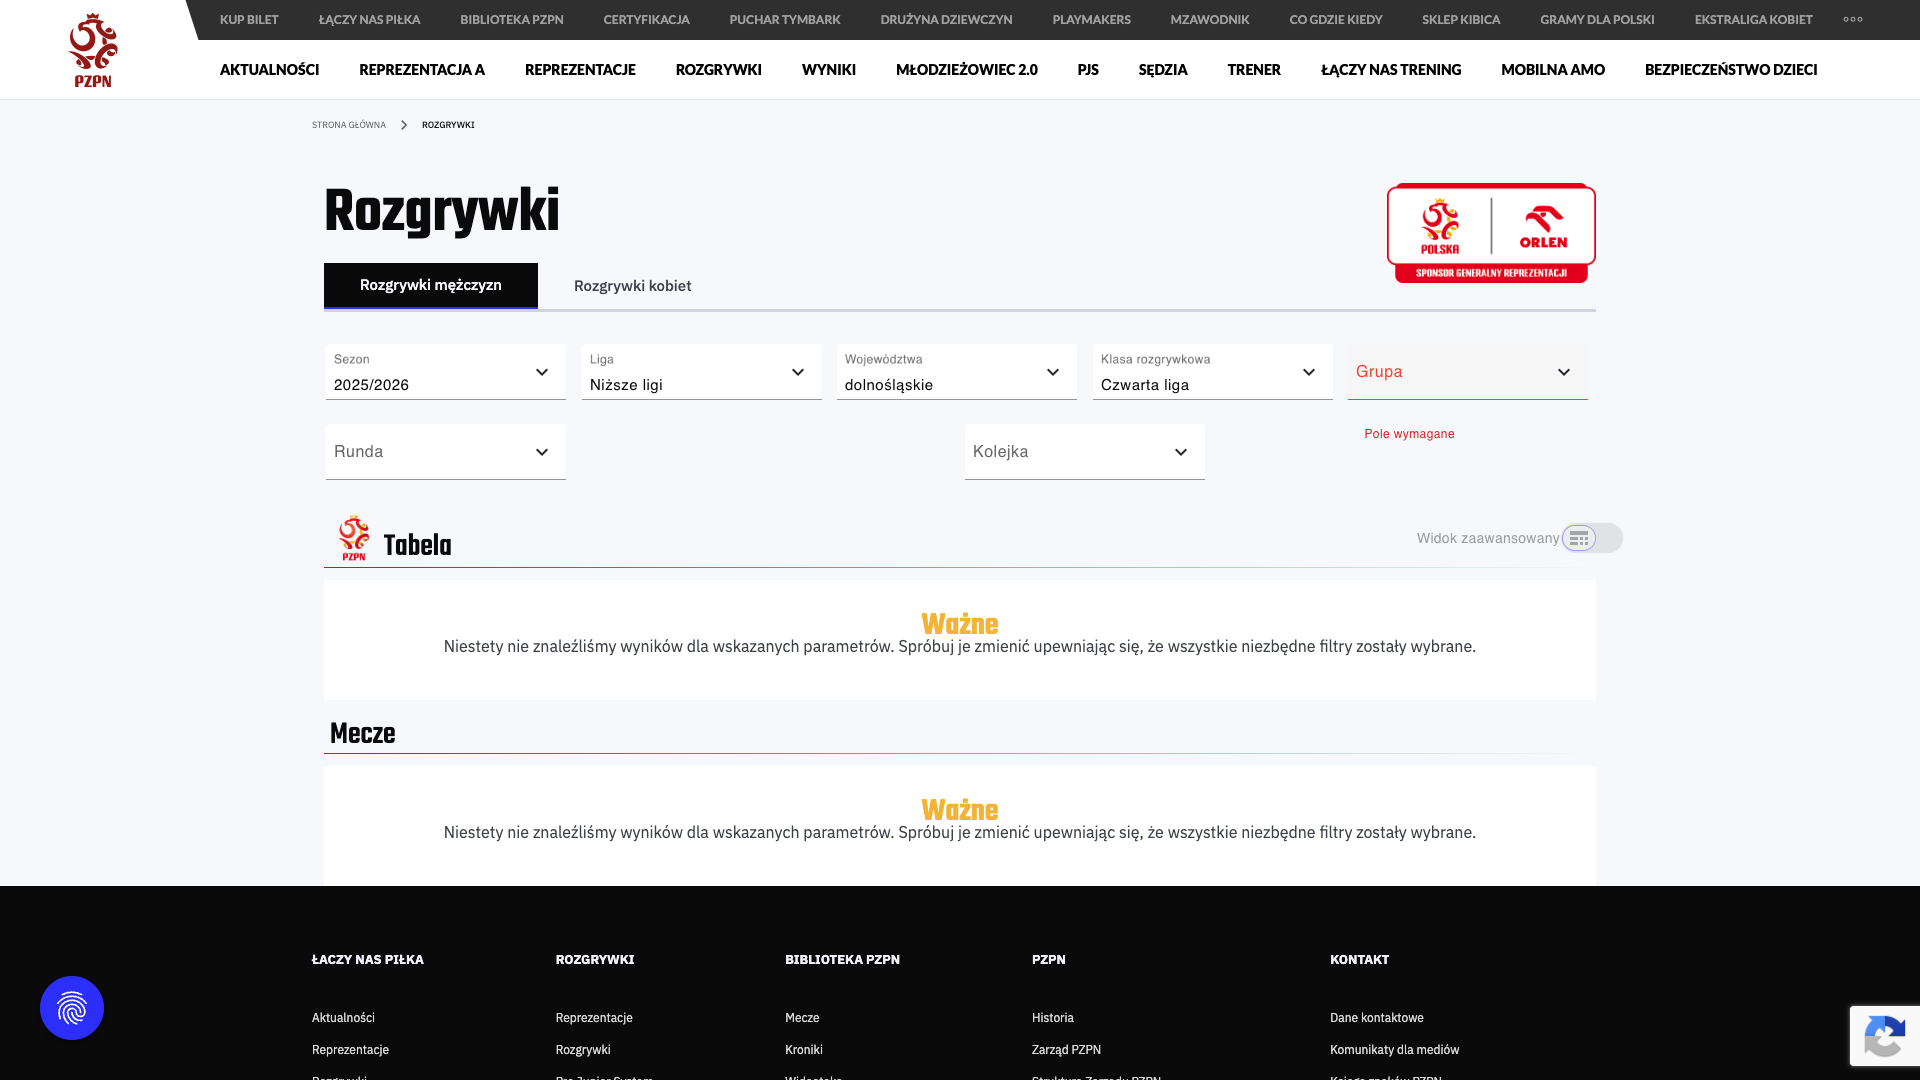
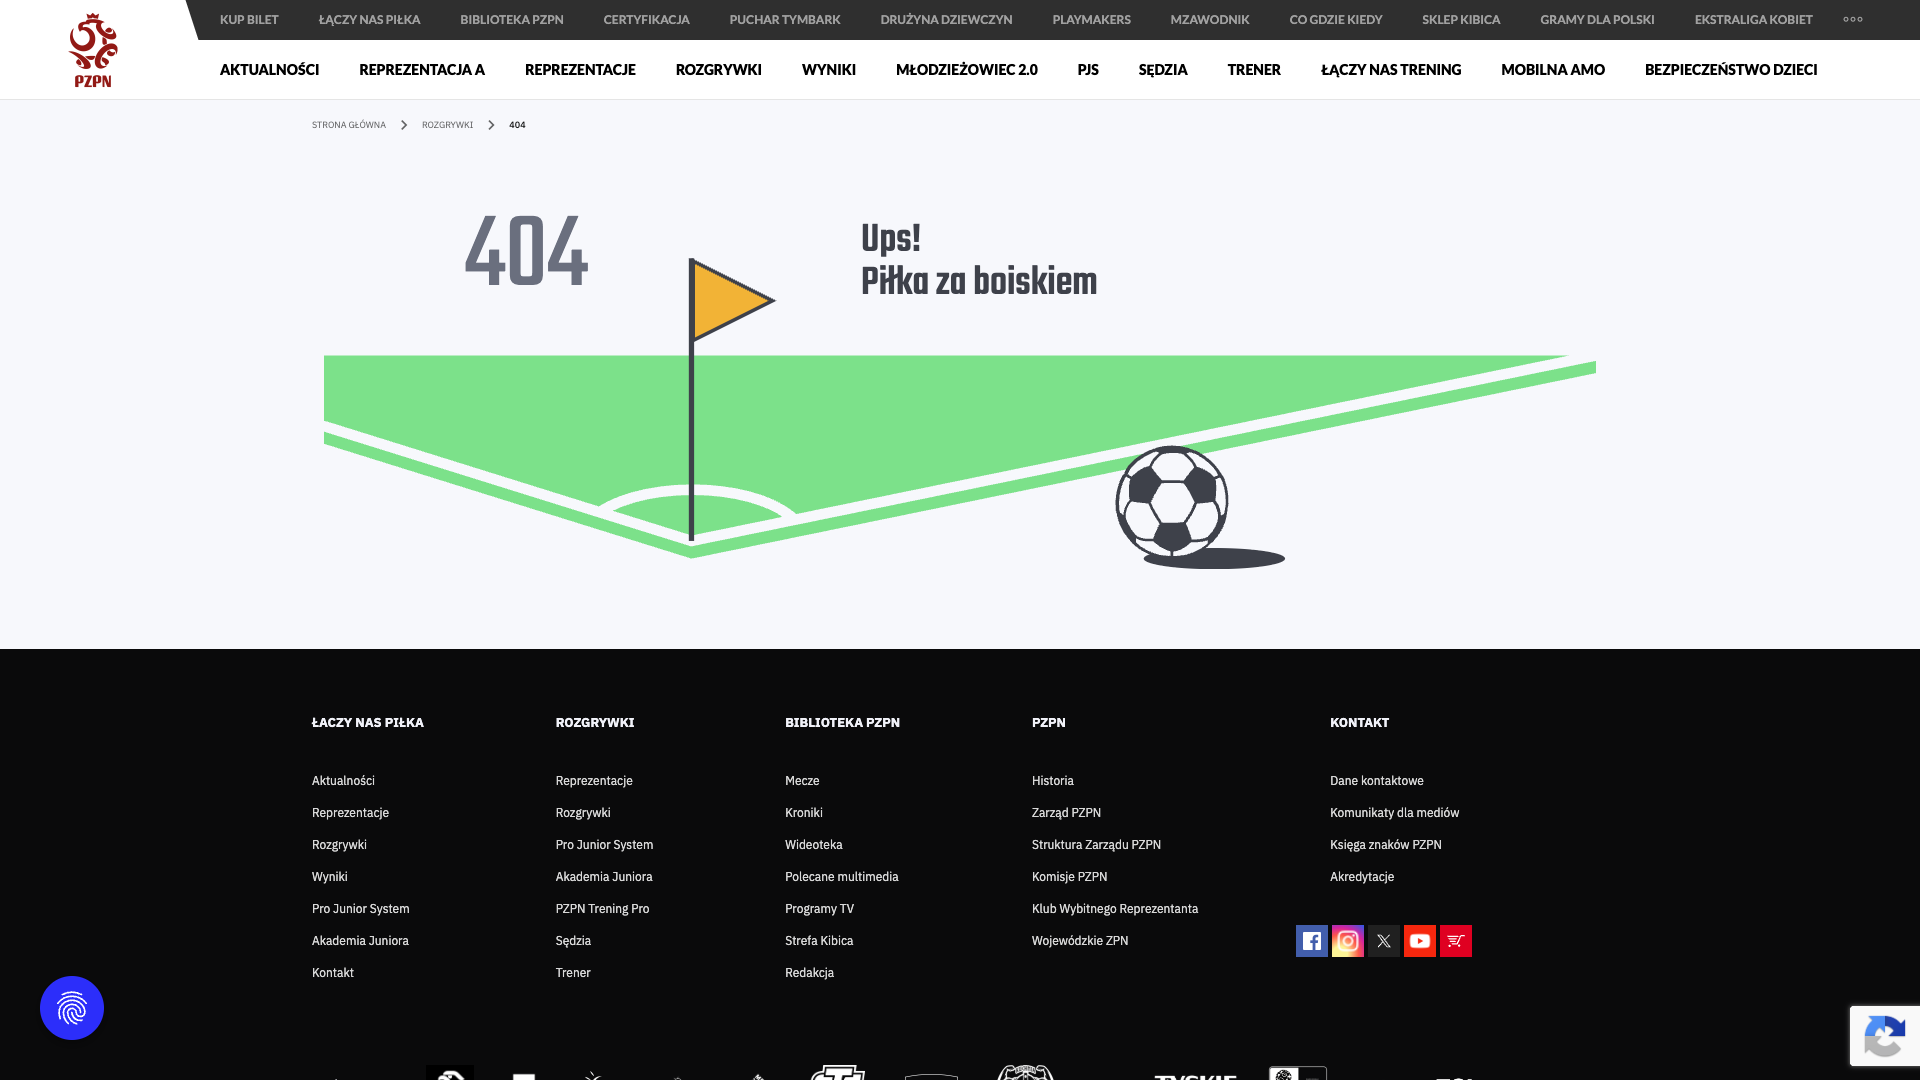
Dodano filtr grup w zaleznosci od wojewodztwa i ligi w js

diff --git a/apps/core/templates/core/index.html b/apps/core/templates/core/index.html
@@ -50,10 +50,10 @@
       <!-- Grupa -->
       <div class="flex flex-col gap-1.5">
         <label class="text-xs font-medium tracking-widest uppercase text-forest-300">Grupa</label>
-        <input type="text" name="group" placeholder="np. Grupa I"
-               class="bg-forest-800 border border-forest-700/50 rounded-lg px-4 py-3 text-forest-50 placeholder-forest-500 text-sm focus:outline-none focus:border-[#b5ff4d] focus:shadow-[0_0_12px_rgba(181,255,77,0.15)] transition-all duration-200">
+        <select name="group" id="group-select"
+          class="bg-forest-800 border border-forest-700/50 rounded-lg px-4 py-3 text-forest-50 text-sm focus:outline-none focus:border-[#b5ff4d] focus:shadow-[0_0_12px_rgba(181,255,77,0.15)] transition-all duration-200 appearance-none cursor-pointer">
+        </select>
       </div>
-
       <button type="submit"
               class="mt-2 px-4 py-3 rounded-lg text-xs font-semibold tracking-widest uppercase bg-[#b5ff4d] text-forest-950 hover:bg-[#caff7a] hover:shadow-[0_0_16px_rgba(181,255,77,0.4)] transition-all duration-200">
         Szukaj
@@ -122,4 +122,43 @@
 {% else %}
 <p class="text-forest-400 text-center py-10">Brak danych.</p>
 {% endif %}
+<script>
+  const GROUP_CHOICES = {{ groups|safe }};
+
+  const provinceSelect = document.querySelector('[name="province"]');
+  const classSelect = document.querySelector('[name="competition_class"]');
+  const groupSelect = document.getElementById('group-select');
+
+  function updateGroups() {
+    const province = provinceSelect.value;
+    const competitionClass = classSelect.value;
+
+    const options = GROUP_CHOICES?.[province]?.[competitionClass] ?? [];
+
+    groupSelect.innerHTML = '';
+
+    if (options.length === 0) {
+      const opt = document.createElement('option');
+      opt.value = '';
+      opt.textContent = '— brak grup —';
+      groupSelect.appendChild(opt);
+    } else {
+      options.forEach(group => {
+        const opt = document.createElement('option');
+        opt.value = group;
+        opt.textContent = group;
+        groupSelect.appendChild(opt);
+      });
+    }
+  }
+
+  provinceSelect.addEventListener('change', updateGroups);
+  classSelect.addEventListener('change', updateGroups);
+
+
+  updateGroups();
+</script>
+
+
 {% endblock %}
+

diff --git a/apps/collector/forms.py b/apps/collector/forms.py
@@ -3,9 +3,9 @@ from .models import LeagueQuery
 
 class LeagueQueryForm(forms.Form):    
     SEASON_CHOICES = [
-        ("2023/2024", "2023/2024"),
-        ("2024/2025", "2024/2025"),
         ("2025/2026", "2025/2026"),
+        ("2024/2025", "2024/2025"),
+        ("2023/2024", "2023/2024"),
     ]
 
     PROVINCE_CHOICES = [
@@ -27,5 +27,35 @@ class LeagueQueryForm(forms.Form):
     season = forms.ChoiceField(choices=SEASON_CHOICES)
     province = forms.ChoiceField(choices=PROVINCE_CHOICES)
     competition_class = forms.ChoiceField(choices=COMPETITION_CLASS_CHOICES)
-    group = forms.CharField(max_length=100)
+    group = forms.CharField(max_length=200)
 
+
+GROUP_CHOICES = {
+    "dolnośląskie": {
+        "Klasa B": [
+            "Wałbrzych: Klasa B Grupa 5", "Wałbrzych: Klasa B Grupa 4", "Wałbrzych: Klasa B Grupa 3", "Wałbrzych: Klasa B Grupa 2", "Wałbrzych: Klasa B Grupa 1"
+        ],
+        "Klasa A": ["Wałbrzych: Klasa A Grupa 1", "Wałbrzych: Klasa A Grupa 2", "Wałbrzych: Klasa A Grupa 3"],
+        "Klasa okręgowa": ["Wałbrzych: Klasa okręgowa"],
+        "Czwarta liga": ['IV Liga "KOLEJE DOLNOŚLĄSKIE"']
+    },
+    "wielkopolskie": {
+        "Klasa B": ['Klasa B "Proton" Grupa 1', 'Klasa B "Proton" Grupa 2', 'Klasa B "Proton" Grupa 3', 'Klasa B "Proton" Grupa 4', 'Klasa B "Proton" Grupa 5', 'Klasa B "Proton" Grupa 6', 'Klasa B "Proton" Grupa 7', 'Klasa B "Proton" Grupa 8', 'Klasa B "Proton" Grupa 9', 'Klasa B "Proton" Grupa 10', 'Klasa B "Proton" Grupa 11', 'Klasa B "Proton" Grupa 12', 'Klasa B "Proton" Grupa 13'],
+        "Klasa A": ['Klasa A "Proton" Grupa 1', 'Klasa A "Proton" Grupa 2', 'Klasa A "Proton" Grupa 3', 'Klasa A "Proton" Grupa 4', 'Klasa A "Proton" Grupa 5', 'Klasa A "Proton" Grupa 6', 'Klasa A "Proton" Grupa 7'],
+        "Klasa okręgowa": ['Klasa okręgowa "Red Box" Grupa 1', 'Klasa okręgowa "Red Box" Grupa 2', 'Klasa okręgowa "Red Box" Grupa 3', 'Klasa okręgowa "Red Box" Grupa 4', 'Klasa okręgowa "Red Box" Grupa 5', 'Klasa okręgowa "Red Box" Grupa 6'],
+        "Piąta liga": ['Piąta liga "Red Box" Grupa 1', 'Piąta liga "Red Box" Grupa 2', 'Piąta liga "Red Box" Grupa 3'], 
+        "Czwarta liga": ['IV Liga "Artbud Group"']
+    },
+    "kujawsko-pomorskie": {
+        "Klasa B": ['Bydgoszcz: Klasa B "Inowrocław" Grupa 5', 'Bydgoszcz: Klasa B "Nakło-Bydgoszcz" Grupa 3', 'Bydgoszcz: Klasa B "Sępólno-Tuchola" Grupa 1'],
+        "Klasa A": ['Bydgoszcz: Klasa A "Północ" Grupa 1', 'Bydgoszcz: Klasa A "Południe" Grupa 2', 'Toruń: Klasa A', 'Włocławek: Klasa A'],
+        "Klasa okręgowa": ['Klasa okręgowa Grupa 1', 'Klasa okręgowa Grupa 2'],
+        "Czwarta liga": ['IV Liga']
+    },
+    "lubelskie": {
+        "Klasa B": ['Biała Podlaska: Klasa B Grupa 1', 'Biała Podlaska: Klasa B Grupa 2', 'Chełm: Klasa B', 'Lublin: Klasa B Grupa 1', 'Lublin: Klasa B Grupa 2', 'Lublin: Klasa B Grupa 3', 'Lublin: Klasa B Grupa 4'],
+        "Klasa A": ['Biała Podlaska: Klasa A Grupa 1', 'Biała Podlaska: Klasa A Grupa 2', 'Chełm: Klasa A', 'Lublin: Klasa A Grupa 1', 'Lublin: Klasa A Grupa 2', 'Lublin: Klasa A Grupa 3', 'Zamość: Klasa A'],
+        "Klasa okręgowa": ['Biała Podlaska: Klasa okręgowa "Macron"', 'Chełm: Klasa okręgowa "Macron"', 'Lublin: Klasa okręgowa "Macron"', 'Zamość: Klasa okręgowa "Macron"'],
+        "Czwarta liga": ['IV Liga "Macron"']
+    }
+}

diff --git a/apps/core/views.py b/apps/core/views.py
@@ -1,6 +1,6 @@
 from django.shortcuts import render, redirect
 
-from apps.collector.forms import LeagueQueryForm
+from apps.collector.forms import LeagueQueryForm, GROUP_CHOICES
 
 import json
 
@@ -75,4 +75,5 @@ def index(request):
     return render(request, "core/index.html", {
         "form": form,
         "standings": standing,
+        "groups": json.dumps(GROUP_CHOICES, ensure_ascii=False)
     })